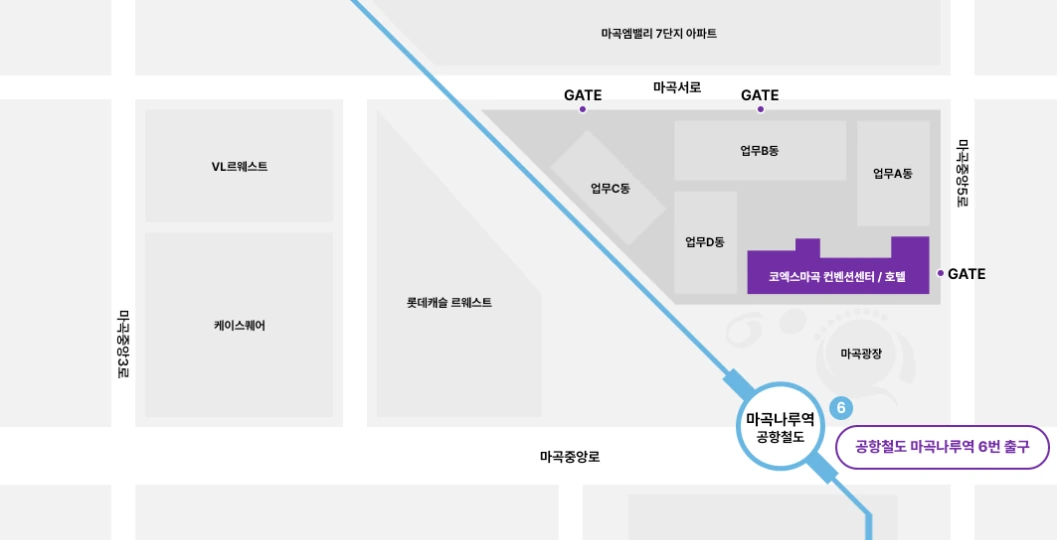
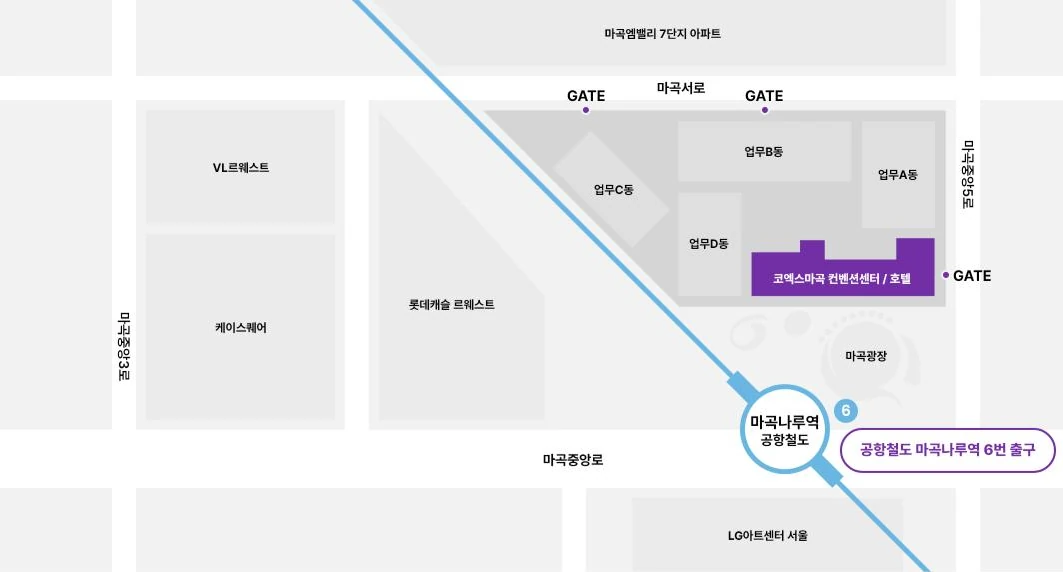
오시는 길 약도: 5호선·버스·승용차 공식 약도 추가, 탭별로 약도 전환
Claude-Session: https://claude.ai/code/session_01Jn6WcWmcb5sRoNZxusdJP8

diff --git a/index.html b/index.html
@@ -371,16 +371,22 @@ button,a{-webkit-tap-highlight-color:transparent}
 </div>
 <div class="cond" data-cond="mapFit">
 <div style="position: relative; border: 1px solid rgba(216,180,106,0.55); border-radius: 10px; overflow: hidden; background: #F2F2F2">
-<div class="cond off" data-cond="mapArex"><img src="assets/venue-map-arex.webp" alt="코엑스마곡 약도: 공항철도 마곡나루역 6번 출구에서 코엑스마곡 컨벤션센터로 이동" style="display: block; width: 100%; height: auto"></div>
-<div class="cond" data-cond="map9"><img src="assets/venue-map.webp" alt="코엑스마곡 약도: 9호선 마곡나루역 2번 출구에서 마곡광장 지하도를 지나 코엑스마곡 컨벤션센터로 이동" style="display: block; width: 100%; height: auto"></div>
+<div class="cond" data-cond="map9"><img src="assets/venue-map.webp?v=2" alt="코엑스마곡 약도: 9호선 마곡나루역 2번 출구에서 마곡광장 지하도를 지나 코엑스마곡 컨벤션센터로 이동" style="display: block; width: 100%; height: auto"></div>
+<div class="cond off" data-cond="mapArex"><img src="assets/venue-map-arex.webp?v=2" alt="코엑스마곡 약도: 공항철도 마곡나루역 6번 출구에서 코엑스마곡 컨벤션센터로 이동" style="display: block; width: 100%; height: auto"></div>
+<div class="cond off" data-cond="map5"><img src="assets/venue-map-line5.webp" alt="코엑스마곡 약도: 5호선 마곡역 1번 출구에서 지하도로 코엑스마곡 컨벤션센터까지 이동 (도보 약 10~15분)" style="display: block; width: 100%; height: auto"></div>
+<div class="cond off" data-cond="mapBus"><img src="assets/venue-map-bus.webp" alt="코엑스마곡 약도: 마곡나루역 정류장(16396) 등 주변 버스 정류장 위치" style="display: block; width: 100%; height: auto"></div>
+<div class="cond off" data-cond="mapCar"><img src="assets/venue-map-car.webp" alt="코엑스마곡 약도: 마곡중앙5로의 코엑스마곡 주차 GATE 위치" style="display: block; width: 100%; height: auto"></div>
 <button type="button" data-action="toggleZoom" style="position: absolute; left: 8px; top: 8px; height: 30px; padding: 0 12px; border: 1px solid #D8B46A; border-radius: 999px; background: rgba(8,8,10,0.85); color: #F3D896; font-size: 12px; display: flex; align-items: center; gap: 5px"><svg aria-hidden="true" width="13" height="13" viewBox="0 0 24 24" fill="none" stroke="currentColor" stroke-width="2" stroke-linecap="round" stroke-linejoin="round"><path d="M15 3h6v6"></path><path d="M9 21H3v-6"></path><path d="M21 3l-7 7"></path><path d="M3 21l7-7"></path></svg>크게 보기</button>
 </div>
 </div>
 <div class="cond off" data-cond="mapZoom">
 <div style="position: relative; border: 1px solid rgba(216,180,106,0.55); border-radius: 10px; overflow: hidden; background: #F2F2F2">
 <div style="height: 380px; overflow: auto; direction: rtl">
-<div class="cond off" data-cond="mapArex"><img src="assets/venue-map-arex.webp" alt="코엑스마곡 약도 확대(공항철도)" style="display: block; width: 744px; max-width: none; height: 380px"></div>
-<div class="cond" data-cond="map9"><img src="assets/venue-map.webp" alt="코엑스마곡 약도 확대(9호선)" style="display: block; width: 744px; max-width: none; height: 380px"></div>
+<div class="cond" data-cond="map9"><img src="assets/venue-map.webp?v=2" alt="코엑스마곡 약도 확대(9호선)" style="display: block; width: 706px; max-width: none; height: 380px"></div>
+<div class="cond off" data-cond="mapArex"><img src="assets/venue-map-arex.webp?v=2" alt="코엑스마곡 약도 확대(공항철도)" style="display: block; width: 706px; max-width: none; height: 380px"></div>
+<div class="cond off" data-cond="map5"><img src="assets/venue-map-line5.webp" alt="코엑스마곡 약도 확대(5호선)" style="display: block; width: 706px; max-width: none; height: 380px"></div>
+<div class="cond off" data-cond="mapBus"><img src="assets/venue-map-bus.webp" alt="코엑스마곡 약도 확대(버스)" style="display: block; width: 706px; max-width: none; height: 380px"></div>
+<div class="cond off" data-cond="mapCar"><img src="assets/venue-map-car.webp" alt="코엑스마곡 약도 확대(승용차)" style="display: block; width: 706px; max-width: none; height: 380px"></div>
 </div>
 <button type="button" data-action="toggleZoom" style="position: absolute; left: 8px; top: 8px; height: 30px; padding: 0 12px; border: 1px solid #D8B46A; border-radius: 999px; background: rgba(8,8,10,0.85); color: #F3D896; font-size: 12px; display: flex; align-items: center; gap: 5px"><svg aria-hidden="true" width="13" height="13" viewBox="0 0 24 24" fill="none" stroke="currentColor" stroke-width="2" stroke-linecap="round" stroke-linejoin="round"><path d="M4 14h6v6"></path><path d="M20 10h-6V4"></path><path d="M14 10l7-7"></path><path d="M3 21l7-7"></path></svg>원래대로</button>
 </div>
@@ -621,7 +627,7 @@ button,a{-webkit-tap-highlight-color:transparent}
     setCond('isSubway', sub); setCond('isBus', st.mode === 'bus'); setCond('isCar', st.mode === 'car');
     setCond('show0', sub && st.station === 0); setCond('show1', sub && st.station === 1); setCond('show2', sub && st.station === 2);
     setCond('mapFit', !st.zoom); setCond('mapZoom', st.zoom);
-    var arex = sub && st.station === 1; setCond('mapArex', arex); setCond('map9', !arex);
+    setCond('map9', sub && st.station === 0); setCond('mapArex', sub && st.station === 1); setCond('map5', sub && st.station === 2); setCond('mapBus', st.mode === 'bus'); setCond('mapCar', st.mode === 'car');
     document.querySelectorAll('[data-tab]').forEach(function(b){ var on = b.getAttribute('data-tab') === st.mode; b.style.color = on ? '#F3D896' : '#8D887F'; b.setAttribute('aria-pressed', on); });
     document.querySelectorAll('[data-st]').forEach(function(b){ var on = +b.getAttribute('data-st') === st.station; b.style.background = on ? '#E9CD8C' : 'transparent'; b.style.color = on ? '#1A1418' : '#D9D3C6'; b.setAttribute('aria-pressed', on); var a = b.querySelector('.st-arrow'); if (a) a.style.opacity = on ? 1 : 0; });
   }
